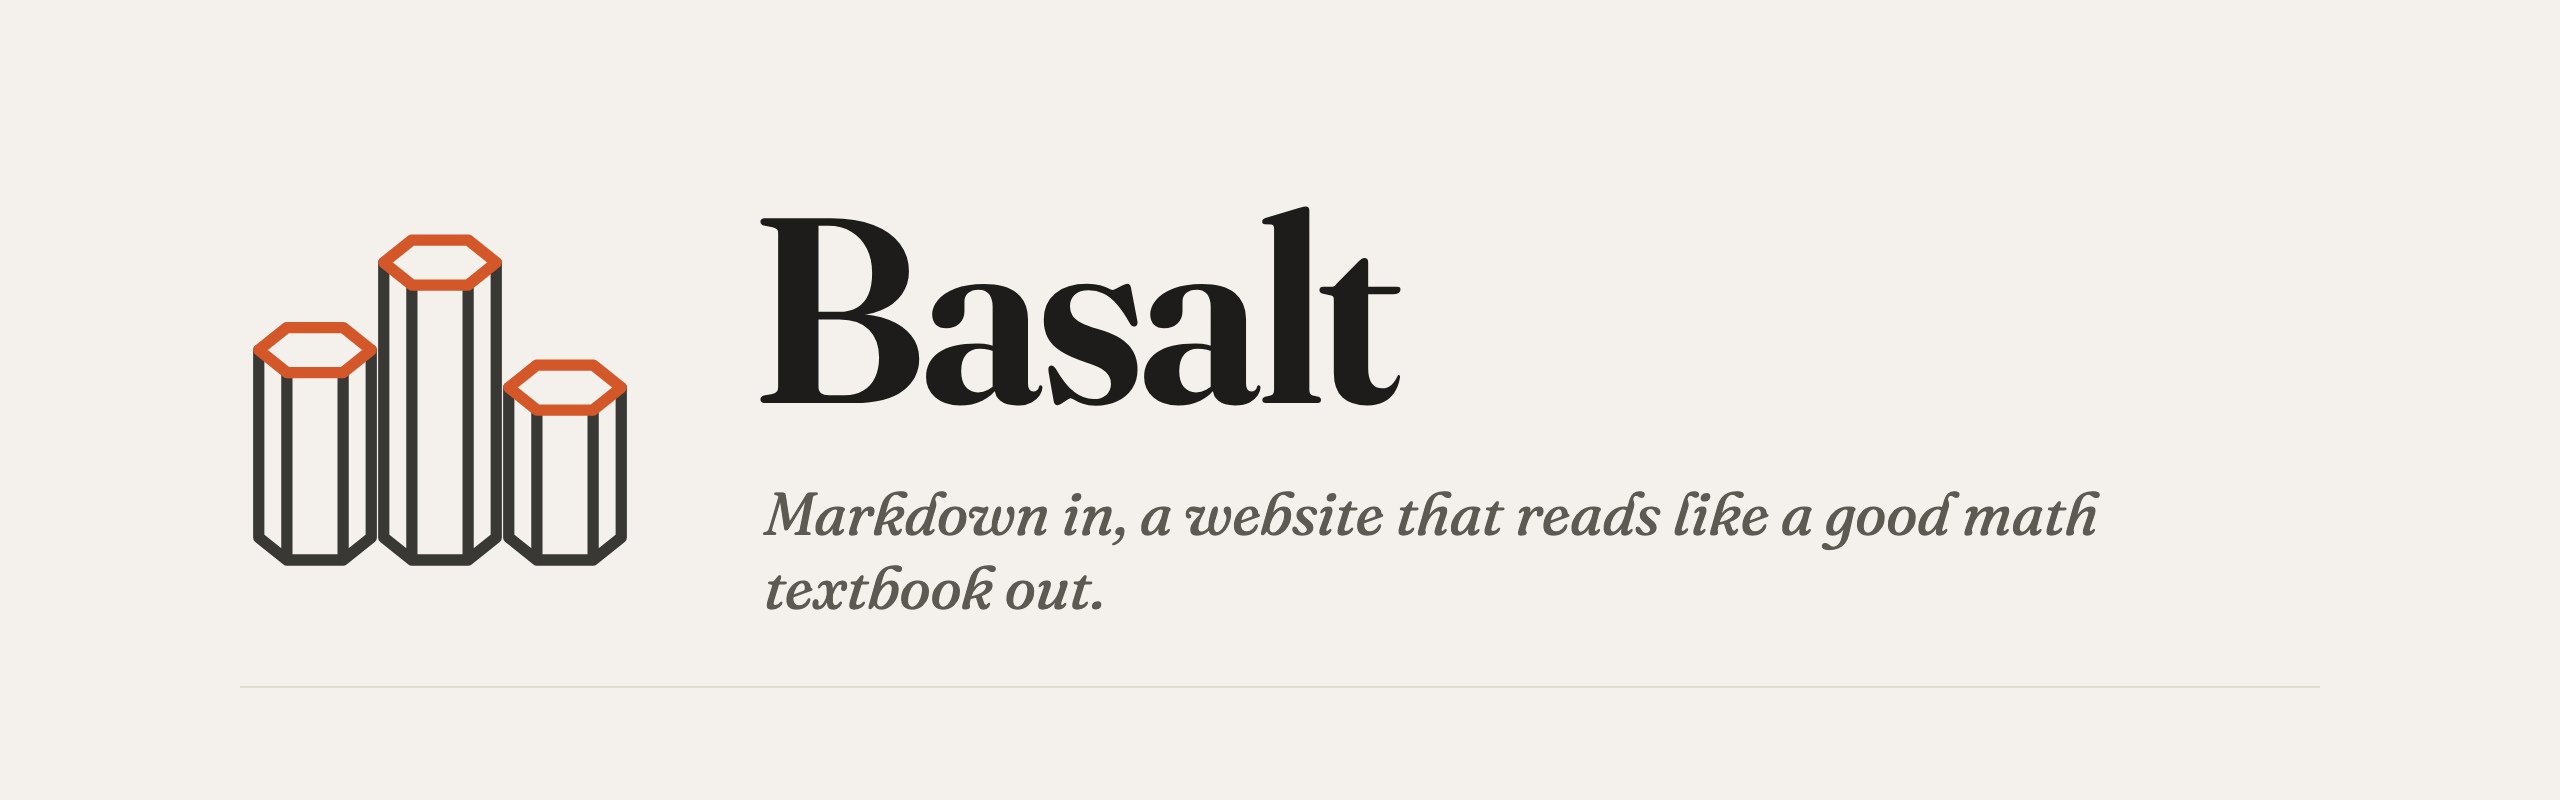
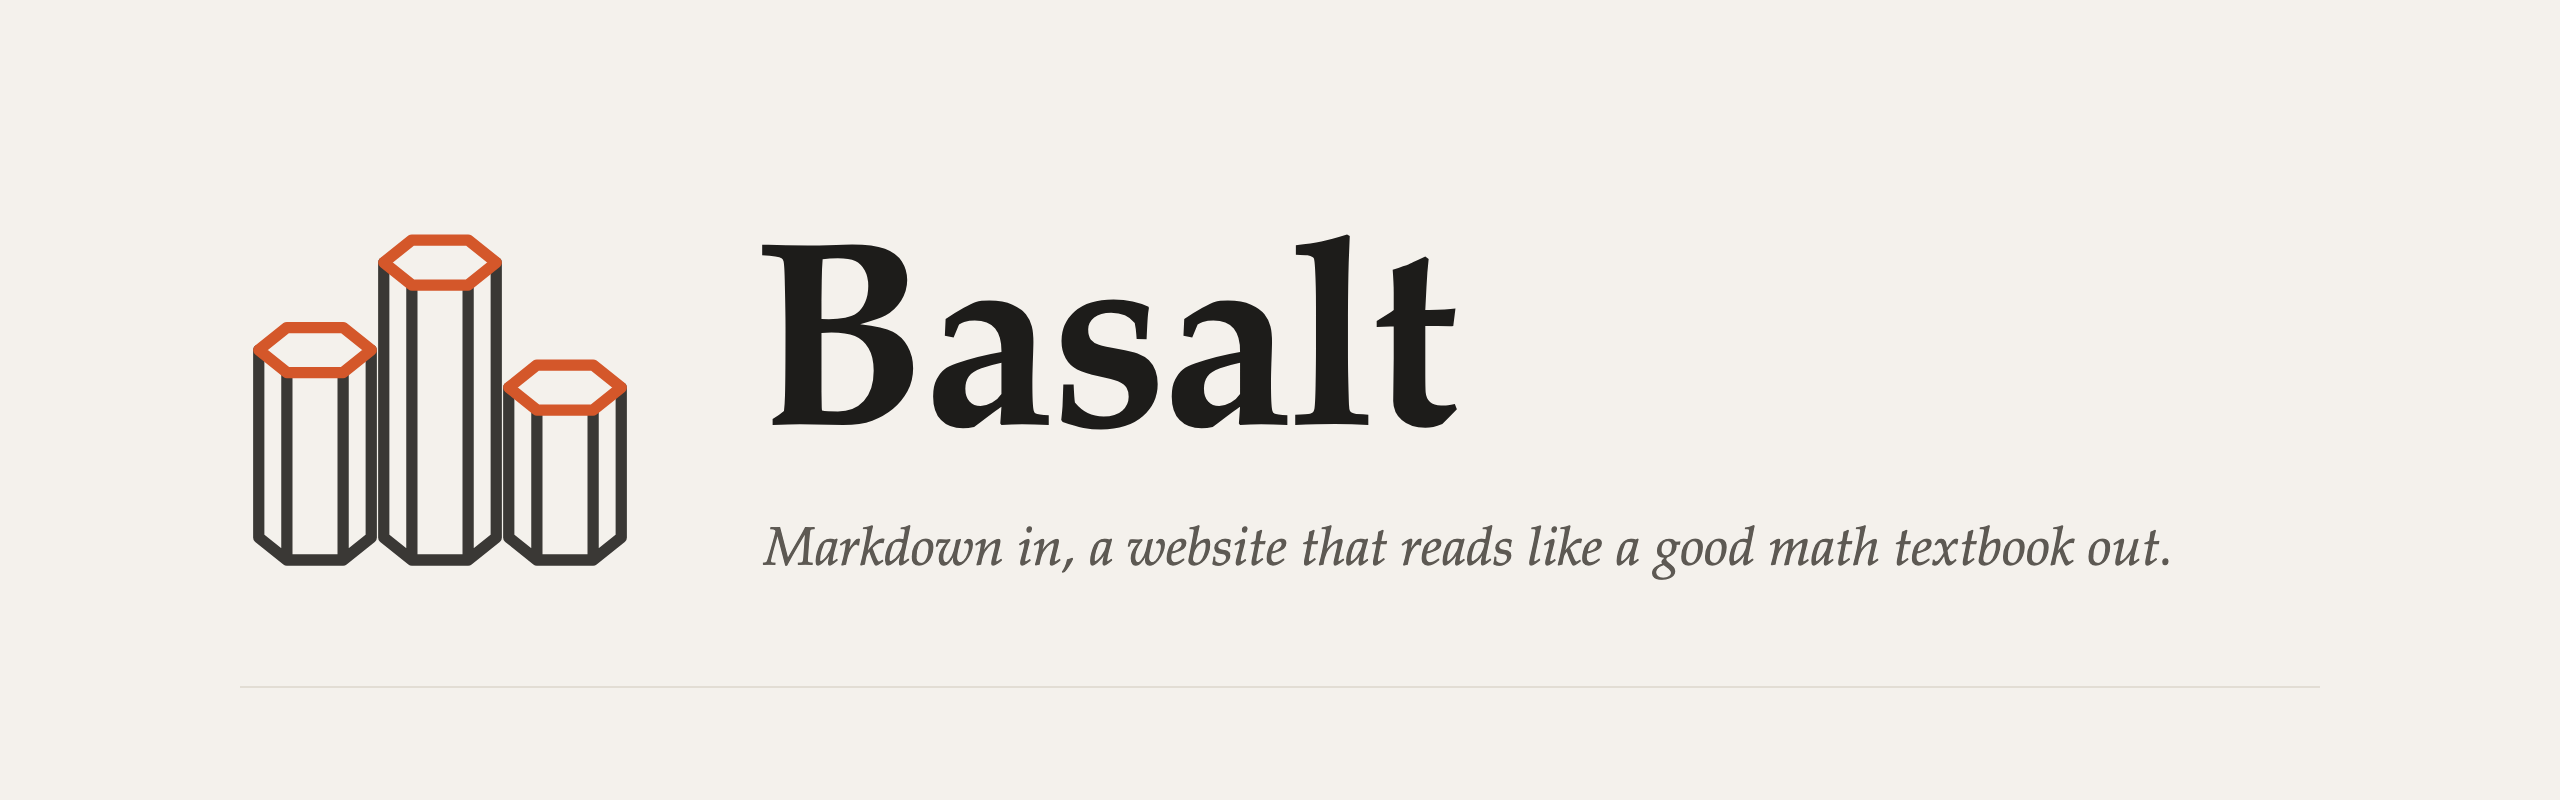
Type: Palatino throughout, and fonts are part of a site's theme
Basalt sets titles, headings and text in Palatino (Palatino Linotype or
Book Antiqua on Windows, a free clone elsewhere), so nothing is fetched
but the code face. A site picks its own with theme.fonts in basalt.json
or basalt.config.ts: title, header, body and code (each a CSS
font-family) and load, stylesheets that bring fonts in. The banner, the
landing and the docs say so.

Changed region(s): [[0.2812, 0.5938, 0.8438, 0.7812], [0.2812, 0.25, 0.5938, 0.5312], [0.2812, 0.25, 0.375, 0.3438]]

diff --git a/src/lib/config.ts b/src/lib/config.ts
@@ -69,7 +69,16 @@ export interface LayoutConfig {
    * light, lightgray, gray, darkgray, dark, secondary, tertiary, highlight,
    * textHighlight, for each mode. In basalt.json it's a top-level "theme".
    */
-  theme: { colors: { lightMode: Record<string, string>; darkMode: Record<string, string> } }
+  theme: {
+    colors: { lightMode: Record<string, string>; darkMode: Record<string, string> }
+    /**
+     * The site's type, over Basalt's (Palatino for everything but code): a
+     * CSS font-family for `title` (the page's title and labels), `header`
+     * (headings), `body` and `code`, and `load`, stylesheets that bring in
+     * fonts the visitor may not have (a Google Fonts link, say).
+     */
+    fonts: { title?: string; header?: string; body?: string; code?: string; load?: string[] }
+  }
 }
 
 export interface BasaltConfig {
@@ -97,7 +106,7 @@ export const defaults: LayoutConfig = {
   rssLimit: 10,
   feed: { folders: [] },
   strings,
-  theme: { colors: { lightMode: {}, darkMode: {} } },
+  theme: { colors: { lightMode: {}, darkMode: {} }, fonts: {} },
 }
 
 function merge<T>(base: T, over: unknown): T {
@@ -187,17 +196,23 @@ export function features(data: Record<string, unknown>, cfg: LayoutConfig): Feat
   return { graph: pick("graph"), toc: pick("toc"), backlinks: pick("backlinks") }
 }
 
-/** The site's palette as css, to follow Basalt's own (empty when it has none). */
+/** The site's palette and type as css, to follow Basalt's own (empty when it has none). */
 export function paletteCss(cfg: LayoutConfig): string {
   const block = (sel: string, colors: Record<string, string>) => {
     const decls = Object.entries(colors)
-      .filter(([k, v]) => /^[a-zA-Z]+$/.test(k) && /^[#\w(),.\s%-]+$/.test(v))
+      .filter(([k, v]) => /^[a-zA-Z]+$/.test(k) && /^[#\w(),.\s%"'-]+$/.test(v))
       .map(([k, v]) => `--${k}: ${v};`)
       .join(" ")
     return decls ? `${sel} { ${decls} }` : ""
   }
+  const fonts = cfg.theme.fonts ?? {}
+  const type = Object.fromEntries(
+    (["title", "header", "body", "code"] as const)
+      .filter((k) => typeof fonts[k] === "string" && /^[\w\s",'-]+$/.test(fonts[k]!))
+      .map((k) => [`${k}Font`, fonts[k]!]),
+  )
   return [
-    block(":root", cfg.theme.colors.lightMode ?? {}),
+    block(":root", { ...(cfg.theme.colors.lightMode ?? {}), ...type }),
     block(':root[saved-theme="dark"]', cfg.theme.colors.darkMode ?? {}),
   ]
     .filter(Boolean)

diff --git a/src/styles/basalt.scss b/src/styles/basalt.scss
@@ -2,8 +2,7 @@
 // (ported from quartz/styles/basalt.scss).
 //
 // The palette is stone paper, basalt ink and an ember accent, with a dark
-// mode. Type is Fraunces over Instrument Sans: a soft, optically sized serif
-// for anything that names something, a plain sans for reading. Small labels
+// mode. Type is Palatino throughout, as a book is set. Small labels
 // (a sidebar section, a date) are set like the titles, in italic, never in
 // small caps or monospace. Lists are hung on hexagons, basalt's columns.
 // A site changes any of it in its styles/custom.scss.
@@ -19,9 +18,14 @@
   --highlight: rgba(212, 87, 42, 0.12);
   --textHighlight: #f2c14e66;
 
-  --titleFont: "Fraunces", system-ui, "Segoe UI", Roboto, Helvetica, Arial, sans-serif;
-  --headerFont: "Fraunces", system-ui, "Segoe UI", Roboto, Helvetica, Arial, sans-serif;
-  --bodyFont: "Instrument Sans", system-ui, "Segoe UI", Roboto, Helvetica, Arial, sans-serif;
+  // Palatino, Zapf's book face, for everything but code: on a Mac it's
+  // Palatino, on Windows Palatino Linotype or Book Antiqua, elsewhere one of
+  // its free clones. A site sets its own in basalt.json's theme.fonts.
+  --palatino: Palatino, "Palatino Linotype", "Book Antiqua", "TeX Gyre Pagella", "URW Palladio L", P052,
+    Georgia, serif;
+  --titleFont: var(--palatino);
+  --headerFont: var(--palatino);
+  --bodyFont: var(--palatino);
   --codeFont: "JetBrains Mono", ui-monospace, SFMono-Regular, "SF Mono", Menlo, monospace;
 
   color-scheme: light;
@@ -45,7 +49,8 @@
 $hex: polygon(25% 5%, 75% 5%, 100% 50%, 75% 95%, 25% 95%, 0% 50%);
 
 :root {
-  // how soft Fraunces' corners are: 0 is sharp, 100 is round
+  // how soft a variable face's corners are, where it has the axis (Fraunces'
+  // SOFT): 0 is sharp, 100 is round
   --basalt-soft: 50;
   --basalt-ease: cubic-bezier(0.2, 0.7, 0.1, 1);
 }

diff --git a/BASALT.md b/BASALT.md
@@ -21,10 +21,18 @@ my-garden/
   "title": "My garden",
   "baseUrl": "garden.example.com",
   "content": [{ "from": "notes" }, { "from": "../posts", "to": "blog" }],
-  "theme": { "colors": { "lightMode": { "tertiary": "#c8482b" }, "darkMode": {} } },
+  "theme": {
+    "colors": { "lightMode": { "tertiary": "#c8482b" }, "darkMode": {} },
+    "fonts": {
+      "title": "Fraunces, serif", "body": "'Instrument Sans', sans-serif",
+      "load": ["https://fonts.googleapis.com/css2?family=Fraunces&family=Instrument+Sans&display=swap"]
+    }
+  },
   "layout": { "toc": false, "components": { "meta": "dated" }, "footer": { "links": { "GitHub": "https://github.com/me" } } }
 }
 ```
+
+Basalt sets everything in Palatino (and code in JetBrains Mono). A site picks its own type with `theme.fonts`: `title` (titles and labels), `header` (headings), `body` and `code`, each a CSS font-family, and `load`, stylesheets that bring in fonts visitors may not have. `theme.colors` does the same for the palette.
 
 Basalt writes only under `<site>/.basalt/astro`. That folder holds the site's own Astro root, which is links to Basalt's files plus its cache, its content store and its build (`dist/`).
 

diff --git a/examples/showcase/notes/index.md b/examples/showcase/notes/index.md
@@ -30,6 +30,6 @@ Basalt is set the way [Edward Tufte](https://www.edwardtufte.com/) sets his book
 
 ## Made from
 
-[Astro](https://astro.build), with markdown from [Quartz](https://quartz.jzhao.xyz)'s plugins and margins after [Tufte CSS](https://edwardtufte.github.io/tufte-css/). Set in [Fraunces](https://fonts.google.com/specimen/Fraunces) and [Instrument Sans](https://fonts.google.com/specimen/Instrument+Sans). Graphs by [graph](https://graph.isaacchacko.com), PDFs by [pdf.js](https://mozilla.github.io/pdf.js/), math by [KaTeX](https://katex.org). Made by [Isaac Chacko](https://isaacchacko.com) for his own garden.
+[Astro](https://astro.build), with markdown from [Quartz](https://quartz.jzhao.xyz)'s plugins and margins after [Tufte CSS](https://edwardtufte.github.io/tufte-css/). Set in [Palatino](https://en.wikipedia.org/wiki/Palatino), Hermann Zapf's book face. Graphs by [graph](https://graph.isaacchacko.com), PDFs by [pdf.js](https://mozilla.github.io/pdf.js/), math by [KaTeX](https://katex.org). Made by [Isaac Chacko](https://isaacchacko.com) for his own garden.
 
 [^this]: Like this remark: beside its line, not at the foot of the page.

diff --git a/README.md b/README.md
@@ -29,4 +29,4 @@ Your notes go in `my-garden/notes/`. [BASALT.md](BASALT.md) covers the site's fi
 
 ## Made from
 
-[Astro](https://astro.build), with markdown from [Quartz](https://quartz.jzhao.xyz)'s plugins and margins after [Tufte CSS](https://edwardtufte.github.io/tufte-css/). Set in [Fraunces](https://fonts.google.com/specimen/Fraunces) and [Instrument Sans](https://fonts.google.com/specimen/Instrument+Sans). Graphs by [graph](https://graph.isaacchacko.com), PDFs by [pdf.js](https://mozilla.github.io/pdf.js/), math by [KaTeX](https://katex.org). MIT licensed.
+[Astro](https://astro.build), with markdown from [Quartz](https://quartz.jzhao.xyz)'s plugins and margins after [Tufte CSS](https://edwardtufte.github.io/tufte-css/). Set in [Palatino](https://en.wikipedia.org/wiki/Palatino), or any font a site chooses. Graphs by [graph](https://graph.isaacchacko.com), PDFs by [pdf.js](https://mozilla.github.io/pdf.js/), math by [KaTeX](https://katex.org). MIT licensed.
